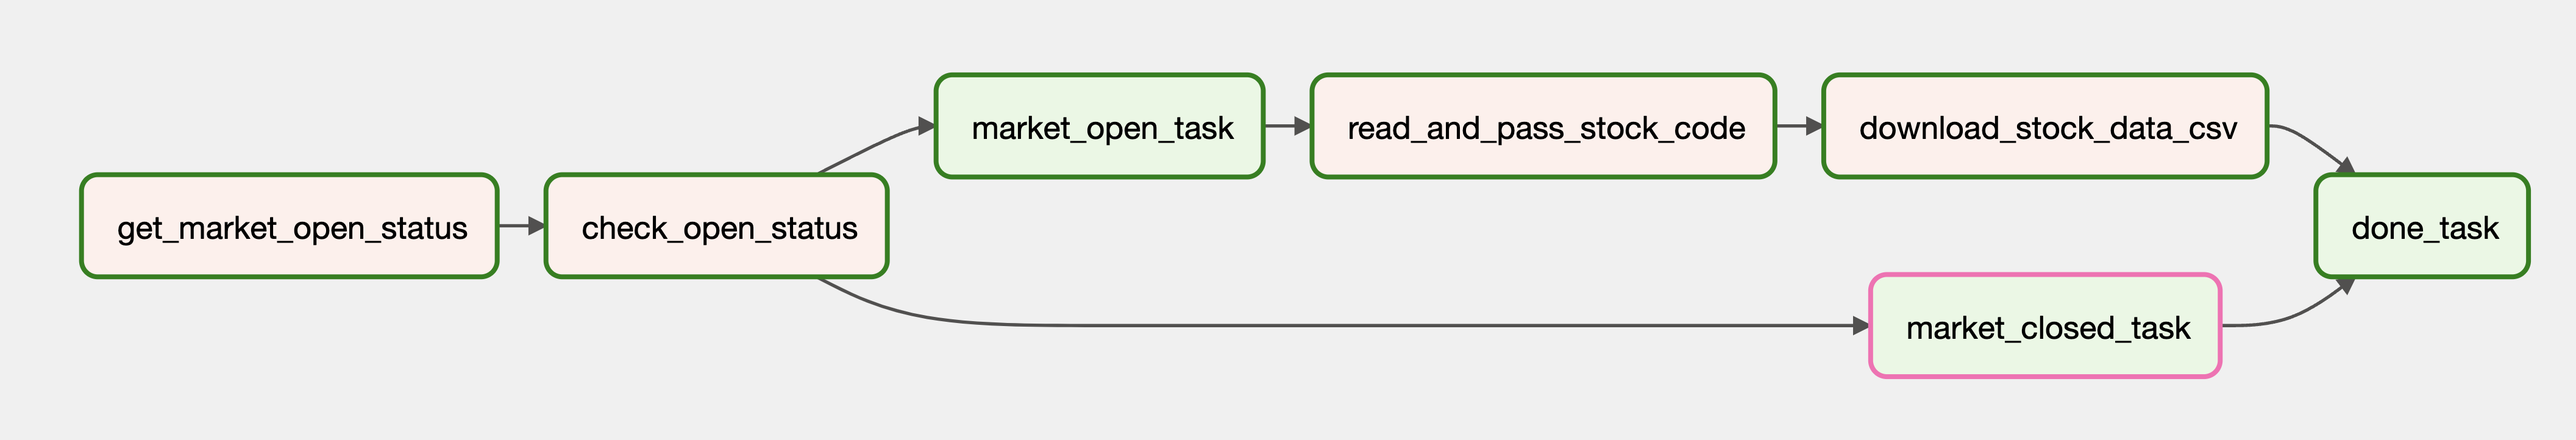
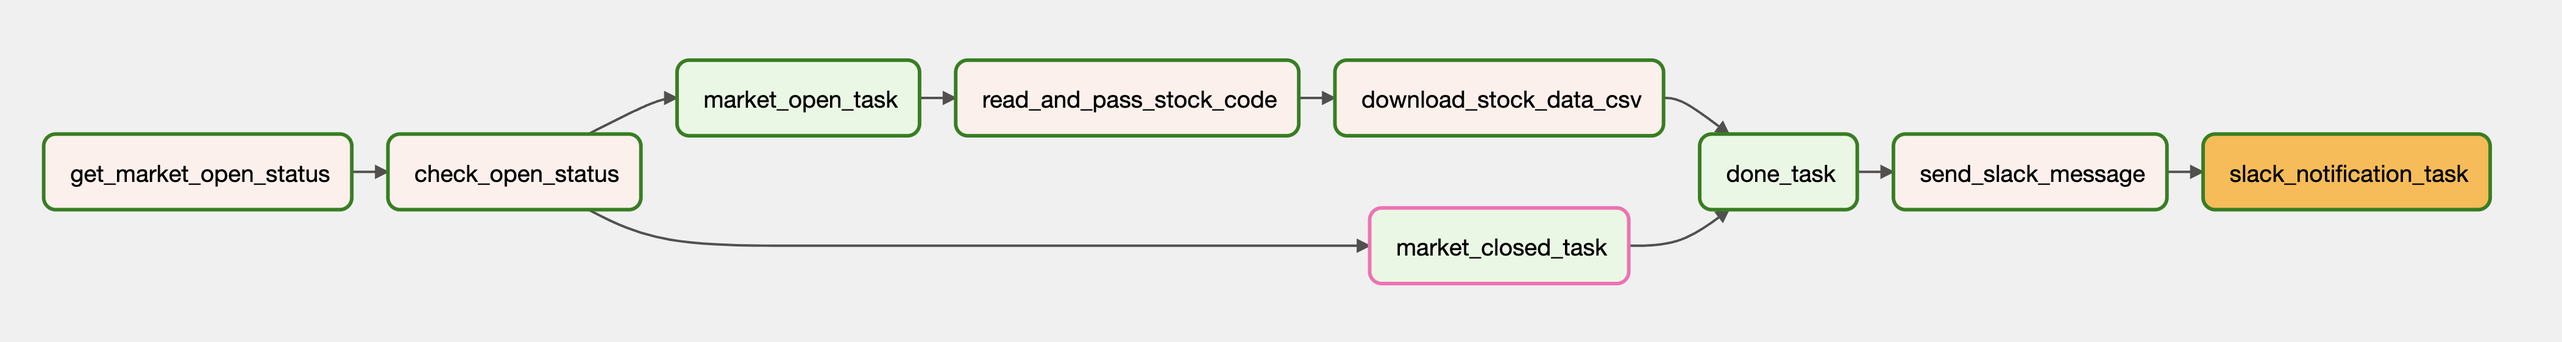
change sample dag image and update code - slack notification sample code using SlackAPIPostOperator

diff --git a/airflow_sample_dags/airflow_stock_daily_price_ks_market.py b/airflow_sample_dags/airflow_stock_daily_price_ks_market.py
@@ -6,6 +6,7 @@ import pytz
 from airflow import DAG
 from airflow.operators.python import PythonOperator, BranchPythonOperator
 from airflow.operators.empty import EmptyOperator
+from airflow.providers.slack.operators.slack import SlackAPIPostOperator
 
 from airflow_config_generate import GetMarketOpenStatus
 from datetime import datetime, timedelta
@@ -118,6 +119,20 @@ with DAG(
             print(f"Done {stock_code} data - Date : {target_date}")
             print("--------------------------------------------------")
 
+    def send_slack_message(**kwargs):
+        dag_id = kwargs['dag'].dag_id
+        execution_date = kwargs['execution_date']
+
+        slack_message = f"DAG execution completed! " \
+                        f"DAG ID : {dag_id} " \
+                        f"Execution Date: {execution_date}"
+
+        task_instance = kwargs['ti']
+        task_instance.xcom_push(
+            key="slack_message",
+            value=slack_message
+        )
+
     get_market_open_status = PythonOperator(
         task_id="get_market_open_status",
         python_callable=get_market_open_status,
@@ -145,6 +160,19 @@ with DAG(
     market_closed_task = EmptyOperator(task_id="market_closed_task")
     market_open_task = EmptyOperator(task_id="market_open_task")
 
+    send_slack_message_task = PythonOperator(
+        task_id="send_slack_message",
+        python_callable=send_slack_message,
+        provide_context=True
+    )
+
+    slack_notification_task = SlackAPIPostOperator(
+        task_id="slack_notification_task",
+        token="your_token",
+        channel="#your_channel",
+        text="{{ ti.xcom_pull(task_ids='send_slack_message', key='slack_message') }}",  # jinja template 활용
+    )
+
     done_task = EmptyOperator(task_id="done_task", trigger_rule="none_failed")
 
     get_market_open_status >> check_open_status
@@ -152,6 +180,6 @@ with DAG(
     check_open_status >> market_open_task
     market_open_task >> read_and_pass_stock_code_task >> download_stock_data_csv_task
     download_stock_data_csv_task >> done_task
-
+    done_task >> send_slack_message_task >> slack_notification_task
 
 
